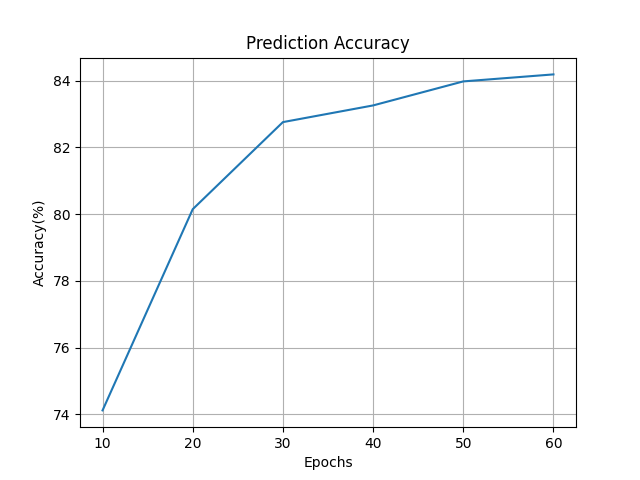
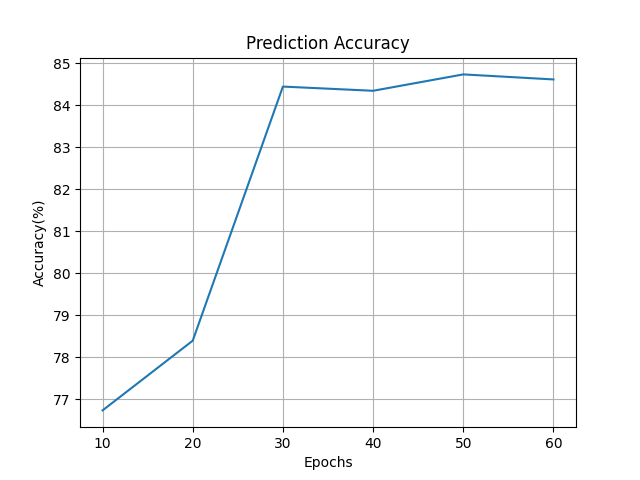
T11.1查漏，T17上传图片，T18记录训练数据

diff --git a/T17/test_17.py b/T17/test_17.py
@@ -30,7 +30,7 @@ transform=transform_test)
 trainloader = DataLoader(trainset, batch_size=128, shuffle=True)
 testloader = DataLoader(testset, batch_size=128, shuffle=False)
 # 3 x 32 x 32 的结构定义卷积神经网络
-class CNN(nn.Module): # 模型总参数量为1792+78356+147584+16512+1290+3*256+128 = 246430个参数，少于50w
+class CNN(nn.Module): # 模型总参数量为1792+78356+147584+132096+10250+2*256+ 2048 = 372766个参数，少于50w
     def __init__(self):
         super().__init__()
         self.conv1 = nn.Conv2d(3,64,kernel_size=(3,3),padding=1) # 第一卷积层 参数个数是：64*3*3*3+64 = 1792个参数
@@ -40,9 +40,9 @@ class CNN(nn.Module): # 模型总参数量为1792+78356+147584+16512+1290+3*256+
         self.conv3 = nn.Conv2d(128,128,kernel_size=(3,3),padding=2,dilation=2) # 加入空洞卷积,相当于扩大了卷积核，为了维持图片是原大小,填充是2
         self.bn3 = nn.BatchNorm2d(num_features=128) # gamma+beta 参数有256      # 第三层卷积层，参数个数是128*128*3*3+128 = 147584 个参数
         self.GAP = nn.AdaptiveAvgPool2d((1,1))  
-        self.w1 = nn.Linear(128,128) # 参数个数 128*128 + 128 = 16512
-        self.bn4 = nn.BatchNorm1d(num_features=128) # gamma+beta 参数有256
-        self.w2 = nn.Linear(128,10)  # 参数个数 128*10 + 10 = 1290
+        self.w1 = nn.Linear(128,1024) # 参数个数 128*500 + 500 = 132096
+        self.bn4 = nn.BatchNorm1d(num_features=1024) # gamma+beta 参数有2048
+        self.w2 = nn.Linear(1024,10)  # 参数个数 1024*10+10 = 10250
     def forward(self,x):
         x = self.conv1(x) # 卷积
         x = self.bn1(x)  # 归一化
@@ -64,7 +64,7 @@ class CNN(nn.Module): # 模型总参数量为1792+78356+147584+16512+1290+3*256+
         x = self.w1(x)
         x = self.bn4(x) # 全连接层也使用BatchNorm，加快收敛速度！
         x = F.leaky_relu(x)
-        x = F.dropout(x,p=0.3) # 使用dropout，可能导致收敛速度变慢！
+        x = F.dropout(x,p=0.5) # 使用dropout，可能导致收敛速度变慢！
         x = self.w2(x)
         return x
 if torch.cuda.is_available():
@@ -76,7 +76,7 @@ else:
 cost = nn.CrossEntropyLoss()
 CNN_module = CNN().to(device)
 optimizer = optim.Adam(CNN_module.parameters(),lr=0.001,weight_decay=0.00001) # L2正则化，使用交叉损失熵计算的同时加上L2范数，对模型复杂度的惩罚。
-scheduler = optim.lr_scheduler.StepLR(optimizer,step_size=20,gamma=0.5) # 引入学习率调度器。
+scheduler = optim.lr_scheduler.StepLR(optimizer,step_size=20,gamma=0.1) # 引入学习率调度器。
 epoch = 60 
 loss_avg = []
 Accuracy = []

diff --git a/T18/test_18.py b/T18/test_18.py
@@ -146,3 +146,36 @@ plt.grid(True)
 plt.savefig(".//T18//Ac.png")
 plt.show()
 
+"""
+Using CUDA: NVIDIA GeForce RTX 5060 Laptop GPU
+In 5 epoch: the loss is:0.7659256790605042
+In 10 epoch: the loss is:0.550064946379503
+第10epoch展示测试结果:
+Loss in 10个 epoch(Test set):0.6191460886333562
+第10个epoch准确率为:78.24%
+In 15 epoch: the loss is:0.43835689466627664
+In 20 epoch: the loss is:0.3488970318871081
+第20epoch展示测试结果:
+Loss in 20个 epoch(Test set):0.646534653404091
+第20个epoch准确率为:80.35%
+In 25 epoch: the loss is:0.29515862224809347
+In 30 epoch: the loss is:0.2400699266234932
+第30epoch展示测试结果:
+Loss in 30个 epoch(Test set):0.48370944171012203
+第30个epoch准确率为:85.38%
+In 35 epoch: the loss is:0.1991894608720794
+In 40 epoch: the loss is:0.1603963695028249
+第40epoch展示测试结果:
+Loss in 40个 epoch(Test set):0.4808829185328906
+第40个epoch准确率为:86.59%
+In 45 epoch: the loss is:0.1293955358779034
+In 50 epoch: the loss is:0.11187799597906944
+第50epoch展示测试结果:
+Loss in 50个 epoch(Test set):0.46086612626721585
+第50个epoch准确率为:87.71%
+In 55 epoch: the loss is:0.10150068046529885
+In 60 epoch: the loss is:0.09784189894642976
+第60epoch展示测试结果:
+Loss in 60个 epoch(Test set):0.46563554772093324
+第60个epoch准确率为:87.83999999999999%
+"""

diff --git a/T11.1/test_11_1.py b/T11.1/test_11_1.py
@@ -47,7 +47,7 @@ for i in range(100000): # epoch 为 500
         print(f"In epoch {i}: loss is: {np.mean(batch_loss)}")
 
 
-
+# 注意这里没有进入eval 模式
 x_test = torch.tensor(x_test,requires_grad=True,dtype=torch.float32).unsqueeze(1)
 y_test = net(x_test)
 x_test = x_test.detach().numpy() # 从计算图上剥离，然后转换成ndarray
